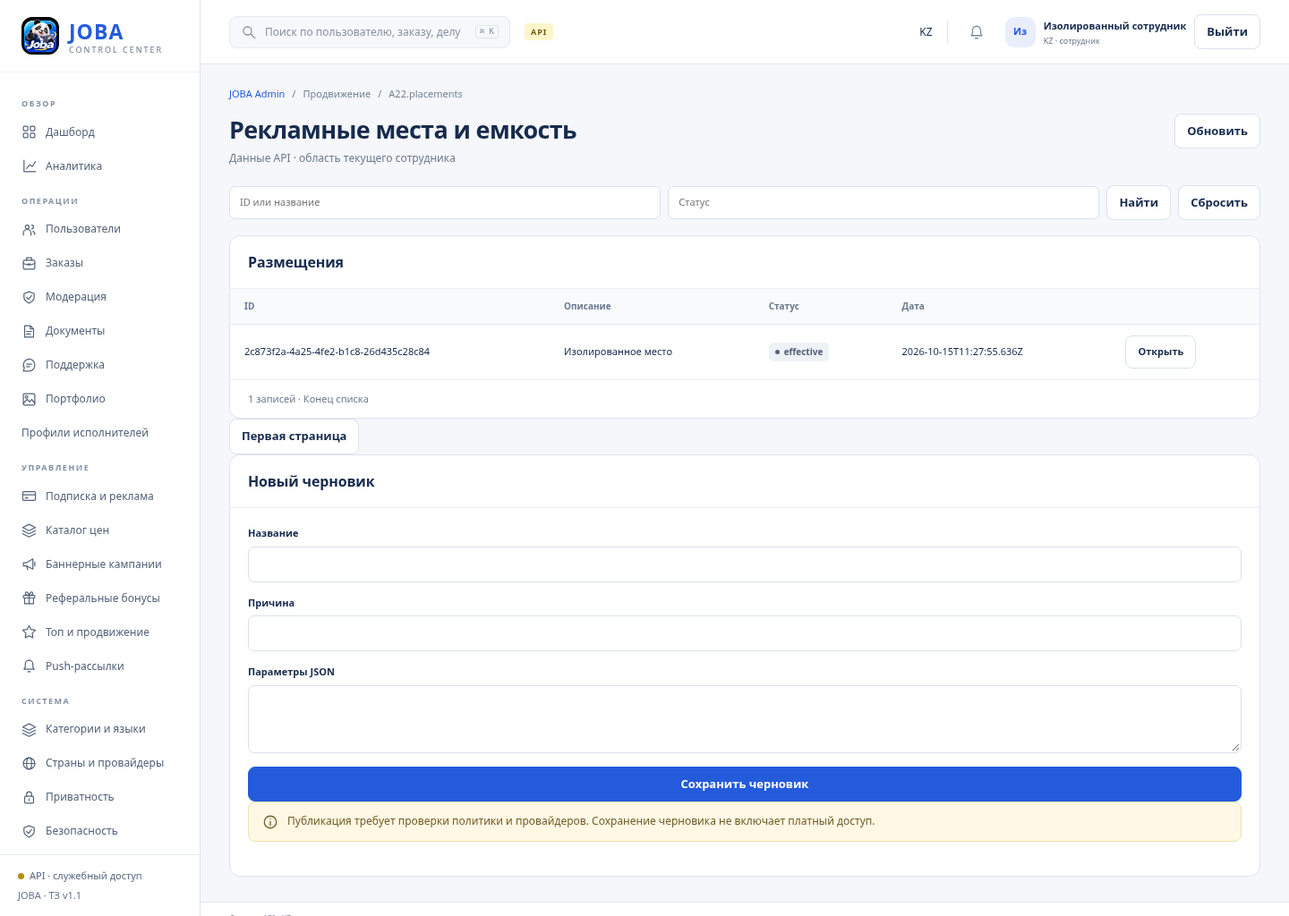
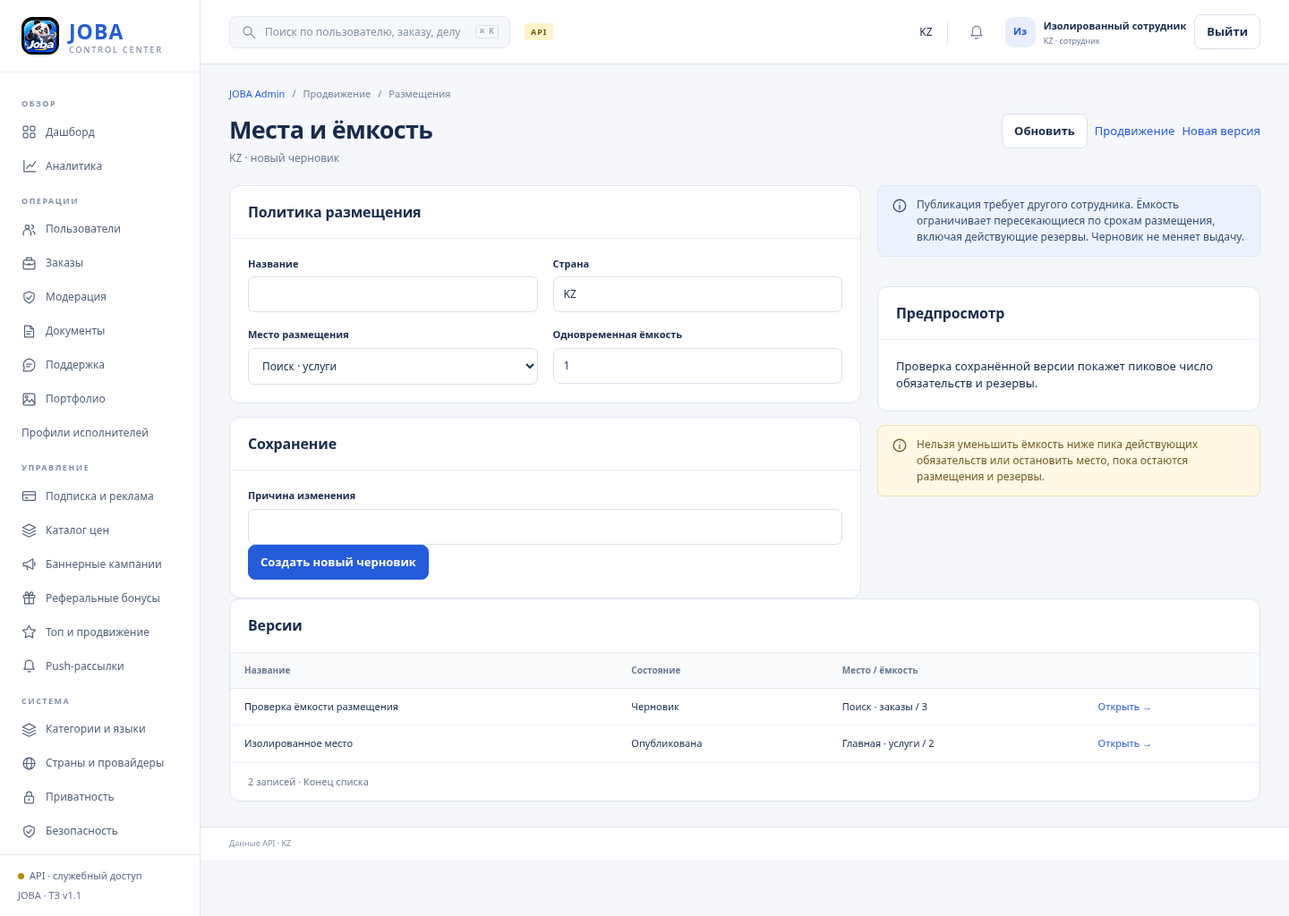
feat: add structured placement policies and preserve capacity promises

diff --git a/apps/admin/placement-workspace.js b/apps/admin/placement-workspace.js
@@ -1,0 +1,13 @@
+const places={'search.services.promoted':'Поиск · услуги','search.orders.promoted':'Поиск · заказы','home.promoted.services':'Главная · услуги','top.services.promoted':'Топ · услуги','top.orders.promoted':'Топ · заказы'};
+const states={draft:'Черновик',effective:'Опубликована',superseded:'Заменена',stopped:'Остановлена'};
+export async function placementWorkspace({key,api,esc,card,note,tablecard,country,actorId,onRefresh}){
+ const params=new URLSearchParams(location.hash.split('?')[1]||''),list=await api('/admin/placement-policies?'+new URLSearchParams({limit:'20',...(params.get('cursor')?{cursor:params.get('cursor')}:{})}));
+ const r=params.get('id')?await api('/admin/placement-policies/'+encodeURIComponent(params.get('id'))):undefined,p=r?.payload||{},own=r?.owner===actorId&&r.status==='draft';
+ const input=(label,name,value,type='text',attrs='')=>`<div class="formfield"><label for="placement-${name}">${label}</label><input id="placement-${name}" name="${name}" value="${esc(value??'')}" type="${type}" ${attrs}></div>`;
+ return {key,id:'Размещения',title:'Места и ёмкость',subtitle:country+(r?' · Версия '+r.version+' · '+(states[r.status]||r.status):' · новый черновик'),section:'Продвижение',actions:'<button id="refresh-data">Обновить</button><a class="btn" href="#boosts">Продвижение</a><a class="btn" href="#placements">Новая версия</a>',body:()=>`<div class="grid split"><form id="placement-editor" class="stack">${card('Политика размещения',`<div class="formgrid">${input('Название','title',r?.title,'text','required minlength="3" maxlength="120"')}${input('Страна','country',country,'text','readonly')}<div class="formfield"><label for="placement-place">Место размещения</label><select id="placement-place" name="placement_id">${Object.entries(places).map(([id,label])=>`<option value="${id}" ${p.placement_id===id?'selected':''}>${label}</option>`).join('')}</select></div>${input('Одновременная ёмкость','capacity',p.capacity??1,'number','required min="1" max="100"')}</div>`)}${card('Сохранение',`${input('Причина изменения','reason','','text','required minlength="10" maxlength="1000"')}<button class="primary">${own?'Сохранить черновик':'Создать новый черновик'}</button><div role="alert"></div>`)}</form><div class="stack">${note('Публикация требует другого сотрудника. Ёмкость ограничивает пересекающиеся по срокам размещения, включая действующие резервы. Черновик не меняет выдачу.')}${r?card('Проверка версии',`<form id="placement-command" class="stack"><label for="placement-command-reason">Основание действия</label><textarea id="placement-command-reason" name="reason" required minlength="10" maxlength="1000"></textarea><div class="actions"><button value="validate">Проверить</button><button value="preview">Предпросмотр параметров</button>${r.status==='draft'?'<button value="publish" class="primary">Опубликовать другим сотрудником</button>':r.status==='effective'?'<button value="stop">Остановить</button>':''}<button value="rollback">Черновик отката</button></div><div role="alert"></div><div role="status"></div></form>`):''}${card('Предпросмотр','<div id="placement-impact">Проверка сохранённой версии покажет пиковое число обязательств и резервы.</div>')}${note('Нельзя уменьшить ёмкость ниже пика действующих обязательств или остановить место, пока остаются размещения и резервы.','warn')}</div></div>${tablecard('Версии',['Название','Состояние','Место / ёмкость',''],list.items.map(x=>[esc(x.title),esc(states[x.status]||x.status),esc((places[x.payload.placement_id]||x.payload.placement_id)+' / '+x.payload.capacity),`<a href="#placements?id=${encodeURIComponent(x.id)}">Открыть →</a>`]),'',`${list.items.length} записей · ${list.meta?.next_cursor?'Есть следующая страница':'Конец списка'}`)}${list.meta?.next_cursor?`<a href="#placements?cursor=${encodeURIComponent(list.meta.next_cursor)}">Следующая страница</a>`:''}`,
+ bind(){const form=document.getElementById('placement-editor'),commands=document.getElementById('placement-command');let dirty=false,busy=false;
+ form.oninput=e=>{if(commands&&e.target.name!=='reason'){dirty=true;commands.querySelectorAll('button').forEach(x=>x.disabled=true);commands.querySelector('[role=status]').textContent='Сохраните изменения перед проверкой.';}};
+ form.onsubmit=async e=>{e.preventDefault();if(busy)return;const values=Object.fromEntries(new FormData(form)),payload={placement_id:values.placement_id,capacity:Number(values.capacity)};busy=true;const controls=[...form.querySelectorAll('input,select,button')];controls.forEach(x=>x.disabled=true);form.querySelector('[role=alert]').textContent='';try{const saved=await api('/admin/placement-policies'+(own?'/'+r.id:''),own?'PATCH':'POST',{title:values.title,reason:values.reason,payload,...(own?{expected_version:r.version}:{})});if(params.get('id')===saved.id)await onRefresh();else location.hash='placements?id='+encodeURIComponent(saved.id);}catch(error){form.querySelector('[role=alert]').textContent=error.message;}finally{busy=false;controls.forEach(x=>x.disabled=false);}};
+ if(commands)commands.onsubmit=async e=>{e.preventDefault();if(dirty||busy)return;busy=true;const action=e.submitter.value,controls=[...commands.querySelectorAll('button'),...form.querySelectorAll('input,select,button')];controls.forEach(x=>x.disabled=true);commands.querySelector('[role=alert]').textContent='';try{const result=await api('/admin/placement-policies/'+r.id+'/'+action,'POST',{reason:new FormData(commands).get('reason'),expected_version:r.version});if(['validate','preview'].includes(action)){commands.querySelector('[role=status]').textContent='Сохранённая версия проверена.';document.getElementById('placement-impact').textContent=action==='preview'?`Версия ${result.source_version}; пик обязательств ${result.promised_peak}; действующих резервов ${result.live_reservations}; активных или запланированных размещений ${result.scheduled_or_active}. Ёмкость не изменена.`:'Место и ёмкость корректны.';}else if(action==='rollback')location.hash='placements?id='+encodeURIComponent(result.id);else await onRefresh();}catch(error){commands.querySelector('[role=alert]').textContent=error.message;}finally{busy=false;controls.forEach(x=>x.disabled=false);}};
+ }};
+}

diff --git a/services/api/src/marketplace.ts b/services/api/src/marketplace.ts
@@ -1,3 +1,4 @@
+import {placementPolicyPayload,placementPromises} from './placement-policy';
 import {referralPolicy} from './referral-policy';
 import {categoryId,categoryPayload} from './category-payload';
 import {pricePayload} from './price-payload';
@@ -1288,7 +1289,7 @@ export class Marketplace {
           if(b.payload?.category_id){const original=await this.object(String(b.payload.category_id),a,'category');stable=categoryId(original);r.legacy_id=original.legacy_id;}
           r.payload=categoryPayload(b.payload,a.country,stable);r.base_version_id=(await this.categories(a.country)).find(x=>x.id===stable)?.record_id??null;await this.store.put(r);await this.audit(a,'categories.draft',r.id,text(b,'reason',5,1000));return r;
         }
-        const r=this.record(kinds[section],a,{title:text(b,'title',3,120),status:'draft',payload:section==='ranking-configs'?rankingPayload(b.payload):section==='referral-campaigns'?referralPolicy(b.payload):section==='price-versions'?pricePayload(b.payload,a.country):section==='push-campaigns'?normalizePushPayload(b.payload??{}):section==='promotions'?normalizePromotionPayload(b.payload??{}):b.payload??{}});
+        const r=this.record(kinds[section],a,{title:text(b,'title',3,120),status:'draft',payload:section==='placement-policies'?placementPolicyPayload(b.payload):section==='ranking-configs'?rankingPayload(b.payload):section==='referral-campaigns'?referralPolicy(b.payload):section==='price-versions'?pricePayload(b.payload,a.country):section==='push-campaigns'?normalizePushPayload(b.payload??{}):section==='promotions'?normalizePromotionPayload(b.payload??{}):b.payload??{}});
         await this.store.put(r);await this.audit(a,section+'.draft',r.id,text(b,'reason',5,1000));return r;
       }
       const editReferral=path.match(/^\/admin\/referral-campaigns\/([^/]+)$/);
@@ -1307,6 +1308,12 @@ export class Marketplace {
         if(r.owner!==a.id||r.status!=='draft')fail(409,'STATE_CONFLICT','Создайте новую версию категории');
         if(b.payload?.category_id&&b.payload.category_id!==categoryId(r))fail(422,'VALIDATION_ERROR','Стабильный ID изменять нельзя');
         const result=await this.store.put({...r,title:text(b,'title',3,120),payload:categoryPayload(b.payload,a.country,categoryId(r)),preview:undefined,version:r.version+1});await this.audit(a,'categories.edited',r.id,text(b,'reason',5,1000));return result;
+      }
+      const editPlacement=path.match(/^\/admin\/placement-policies\/([^/]+)$/);
+      if(editPlacement&&['GET','PATCH'].includes(method)){
+        const r=await this.object(editPlacement[1],a,'placement_policy');if(method==='GET')return {...r,metrics:await placementPromises(this.store,a.country,r.payload.placement_id)};
+        this.version(r,b);if(r.owner!==a.id||r.status!=='draft')fail(409,'STATE_CONFLICT','Создайте новую версию размещения');
+        const result=await this.store.put({...r,title:text(b,'title',3,120),payload:placementPolicyPayload(b.payload),preview:undefined,version:r.version+1});await this.audit(a,'placements.edited',r.id,text(b,'reason',5,1000));return result;
       }
       const editRanking=path.match(/^\/admin\/ranking-configs\/([^/]+)$/);
       if(editRanking&&['GET','PATCH'].includes(method)){
@@ -1398,7 +1405,7 @@ export class Marketplace {
       if(configurationCommand&&configKinds.includes(section)&&method==='POST') {
         const r=await this.object(configurationCommand[2],a,kinds[section]);
         if(configurationCommand[3]==='preview'){this.version(r,b);const reason=text(b,'reason',10,1000);const preview=await this.configuration.preview(r);await this.audit(a,'configuration.preview',r.id,reason);return preview;}
-        if(configurationCommand[3]==='validate'){if(['verification_policy','retention_policy','price_version','category','referral_campaign','ranking_config'].includes(r.kind))this.version(r,b);const result=await this.configuration.validate(r);if(r.kind==='price_version')await this.audit(a,'prices.validated',r.id,text(b,'reason',10,1000));return result;}
+        if(configurationCommand[3]==='validate'){if(['verification_policy','retention_policy','price_version','category','referral_campaign','ranking_config','placement_policy'].includes(r.kind))this.version(r,b);const result=await this.configuration.validate(r);if(r.kind==='price_version')await this.audit(a,'prices.validated',r.id,text(b,'reason',10,1000));return result;}
         const result=await this.configuration.publish(r,a.id,b.expected_version);await this.audit(a,section+'.published',r.id,text(b,'reason',10,1000));return result;
       }
       const configurationStop=path.match(/^\/admin\/([^/]+)\/([^/]+)\/(stop|cancel|rollback)$/);
@@ -1408,6 +1415,10 @@ export class Marketplace {
         if(r.kind==='category'&&configurationStop[3]!=='rollback'&&(await this.categories(a.country)).some(child=>child.payload.parent_id===categoryId(r)))fail(409,'CATEGORY_HAS_CHILDREN','Сначала перенесите или архивируйте дочерние категории');
         if(r.kind==='country_control'&&configurationStop[3]!=='rollback')fail(409,'SECOND_APPROVAL_REQUIRED','Для изменения состояния страны опубликуйте новый черновик с независимым подтверждением');
         if(configurationStop[3]==='rollback'){const draft=this.record(r.kind,a,{title:r.title,payload:r.payload,status:'draft',rollback_of:r.id,...(r.kind==='category'?{legacy_id:r.legacy_id,base_version_id:(await this.categories(a.country)).find(x=>x.id===categoryId(r))?.record_id??null}:{})});await this.store.put(draft);await this.audit(a,section+'.rollback_draft',draft.id,reason);return draft;}
+        if(r.kind==='placement_policy'&&r.status==='effective'){
+          await this.store.db.query('SELECT pg_advisory_xact_lock(hashtextextended($1,0))',['boost-capacity:'+a.country+':'+r.payload.placement_id]);
+          if((await placementPromises(this.store,a.country,r.payload.placement_id)).promised_peak>0)fail(409,'PLACEMENT_PROMISES_ACTIVE','Сначала завершите действующие размещения и резервы');
+        }
         const result=await this.store.put({...r,status:'stopped',version:r.version+1});await this.audit(a,section+'.stopped',r.id,reason);return result;
       }
       fail(404,'NOT_FOUND','Команда ещё не реализована');

diff --git a/apps/admin/runtime.js b/apps/admin/runtime.js
@@ -1,3 +1,4 @@
+import {placementWorkspace} from './placement-workspace.js';
 import {rankingWorkspace} from './ranking-workspace.js';
 import {referralWorkspace} from './referral-workspace.js';
 import {categoryWorkspace} from './category-workspace.js';
@@ -23,7 +24,7 @@ const {routes,render,card,tablecard,field,note,metric,badge}=window.JOBA_ADMIN;
 const designMode=new URLSearchParams(location.search).has('design');
 const esc=v=>String(v??'').replace(/[&<>"']/g,c=>({'&':'&amp;','<':'&lt;','>':'&gt;','"':'&quot;',"'":'&#39;'}[c]));
 let session,loginDraft,cache={},error='',generation=0,disposeWorkspace;
-const privateWorkspaces=new Set([...pushRoutes,...scenarioRoutes,...userRoutes,'ranking','referrals','referral-preview','categories','prices','pricing','verificationPolicies','retention','campaigns','banner-detail','branding-build','boosts','boost-grant','analytics','dashboard','security','jobs','scheduled','job-detail','branding','countries','monetization','settings','legal']);
+const privateWorkspaces=new Set([...pushRoutes,...scenarioRoutes,...userRoutes,'placements','ranking','referrals','referral-preview','categories','prices','pricing','verificationPolicies','retention','campaigns','banner-detail','branding-build','boosts','boost-grant','analytics','dashboard','security','jobs','scheduled','job-detail','branding','countries','monetization','settings','legal']);
 const cursors={},filters={},configRoutes=new Set(['prices','pricing','monetization','push','referrals','dictionaries','dictionary','categories','ranking','placements','verificationPolicies','retention']);
 const sections={users:['users','Аккаунты'],orders:['orders','Заказы'],support:['support-threads','Поддержка'],'support-recovery':['recovery-threads','Восстановление доступа'],moderation:['cases','Дела'],portfolio:['portfolio','Портфолио'],contractors:['contractors','Профили исполнителей'],privacy:['privacy-requests','Запросы приватности'],blacklist:['blacklist','Черный список'],audit:['audit','Аудит'],prices:['price-versions','Цены'],monetization:['monetization-configs','Монетизация'],push:['push-campaigns','Рассылки'],referrals:['referral-campaigns','Реферальные кампании'],dictionaries:['moderation-dictionaries','Словари'],categories:['categories','Категории'],ranking:['ranking-configs','Рейтинг'],pricing:['price-versions','Каталог цен'],campaigns:['banner-campaigns','Кампании'],dictionary:['moderation-dictionaries','Запрещенные слова'],verification:['verifications','Проверка документов'],top100:['boost-reports','Топ и продвижение'],placements:['placement-policies','Размещения'],verificationPolicies:['verification-policies','Правила проверки'],retention:['retention-policies','Сроки хранения']};
 function clearStaffState(){
@@ -114,11 +115,12 @@ async function draw(reload=true) {
       if(key==='countries')routes[key]=await countryWorkspace({key,api:request,esc,card,note,badge,namedField,onRefresh:()=>draw()});
       if(['analytics','dashboard','security','jobs','scheduled','job-detail'].includes(key))routes[key]=await systemWorkspace({key,api:request,esc,card,tablecard,note,metric,badge,onRefresh:()=>draw()});
       if(key==='security')routes[key].actions+='<a class="btn" href="#security-full">Защищённый просмотр</a>';
-      if(sections[key]&&!pushRoutes.has(key)&&!['ranking','referrals','campaigns','verificationPolicies','retention','prices','pricing','categories'].includes(key))cache[key]=await request('/admin/'+sections[key][0]+'?'+new URLSearchParams({...filters[key],...(cursors[key]?{cursor:cursors[key]}:{})}));
+      if(sections[key]&&!pushRoutes.has(key)&&!['placements','ranking','referrals','campaigns','verificationPolicies','retention','prices','pricing','categories'].includes(key))cache[key]=await request('/admin/'+sections[key][0]+'?'+new URLSearchParams({...filters[key],...(cursors[key]?{cursor:cursors[key]}:{})}));
       if(key==='categories')routes[key]=await categoryWorkspace({key,api:request,esc,card,note,tablecard,country:session.user.country,actorId:session.user.id,onRefresh:()=>draw()});
       if(['verificationPolicies','retention'].includes(key))routes[key]=await documentPolicyWorkspace({key,api:request,esc,card,note,tablecard,country:session.user.country,actorId:session.user.id,onRefresh:()=>draw()});
       if(['campaigns','banner-detail'].includes(key))routes[key]=await bannerWorkspace({key,api:request,files:{upload:async file=>{if(g!==generation)throw Error('Экран изменился');const result=await api.upload(file,'banner');if(g!==generation)throw Error('Экран изменился');return result;},download:async path=>{if(g!==generation)throw Error('Экран изменился');const result=await api.download(path);if(g!==generation)throw Error('Экран изменился');return result;}},esc,card,note,tablecard,country:session.user.country,actorId:session.user.id,onRefresh:()=>draw()});
       if(['promo','promo-preview'].includes(key))routes[key]=await promotionWorkspace({key,api:request,esc,card,note,tablecard,country:session.user.country,actorId:session.user.id,onRefresh:()=>draw()});
+      if(key==='placements')routes[key]=await placementWorkspace({key,api:request,esc,card,note,tablecard,country:session.user.country,actorId:session.user.id,onRefresh:()=>draw()});
       if(key==='ranking')routes[key]=await rankingWorkspace({key,api:request,esc,card,note,tablecard,country:session.user.country,actorId:session.user.id,onRefresh:()=>draw()});
       if(['referrals','referral-preview'].includes(key))routes[key]=await referralWorkspace({key,api:request,esc,card,note,tablecard,country:session.user.country,actorId:session.user.id,onRefresh:()=>draw()});
       if(['pricing','prices'].includes(key))routes[key]=await priceWorkspace({key,api:request,esc,card,note,tablecard,country:session.user.country,actorId:session.user.id,onRefresh:()=>draw()});

diff --git a/services/api/src/configuration.ts b/services/api/src/configuration.ts
@@ -1,3 +1,4 @@
+import {placementPolicyPayload,placementPromises} from './placement-policy';
 import {referralPolicy} from './referral-policy';
 import {categoryId,validateCategory} from './category-payload';
 import {pricePayload} from './price-payload';
@@ -66,7 +67,7 @@ export class Configuration {
     if(r.kind==='category')return validateCategory(this.store,r);
     if(r.kind==='referral_campaign')referralPolicy(p);
     if(r.kind==='ranking_config')rankingParameters(p);
-    if(r.kind==='placement_policy'&&(!Number.isInteger(p.capacity)||p.capacity<1||p.capacity>100))fail('VALIDATION_ERROR','Проверьте ёмкость размещения');
+    if(r.kind==='placement_policy'){const policy=placementPolicyPayload(p);return {valid:true,...policy,...await placementPromises(this.store,r.country,policy.placement_id)};}
     if(['verification_policy','retention_policy'].includes(r.kind)) {
       const document=await this.store.get(p.document_id);if(!document||document.kind!=='legal_document'||document.country!==r.country||document.status!=='published')fail('LEGAL_VERSION_UNAPPROVED','Нужно опубликованное правовое основание');
       if(r.kind==='verification_policy'&&(!Array.isArray(p.document_types)||!p.document_types.length||p.document_types.some((t:string)=>!['passport','id_card'].includes(t))))fail('VALIDATION_ERROR','Укажите допустимые типы документа');
@@ -91,10 +92,15 @@ export class Configuration {
       const head=(await this.store.all('category',r.country)).find(x=>x.status==='effective'&&categoryId(x)===categoryId(r));
       if(Object.hasOwn(r,'base_version_id')&&(head?.id??null)!==r.base_version_id)fail('CATEGORY_BASE_CHANGED','Каталог изменился. Откройте актуальную категорию и создайте новую версию',409);
     }
+    if(r.kind==='placement_policy'){
+      placementPolicyPayload(r.payload);
+      await this.store.db.query('SELECT pg_advisory_xact_lock(hashtextextended($1,0))',['boost-capacity:'+r.country+':'+r.payload.placement_id]);
+      const fresh=await this.store.get(r.id);if(!fresh||fresh.version!==version)fail('STATE_CONFLICT','Версия размещения изменилась',409);
+    }
     const preview=await this.validate(r);
     if(r.kind==='placement_policy') {
-      const active=(await this.store.all('boost',r.country)).filter(x=>x.placement_id===r.payload.placement_id&&['active','scheduled'].includes(x.status));
-      if(active.length>r.payload.capacity)fail('CAPACITY_PROMISE_CONFLICT','Нельзя уменьшить ёмкость ниже выданных обещаний',409);
+      const promises=await placementPromises(this.store,r.country,r.payload.placement_id);
+      if(promises.promised_peak>r.payload.capacity)fail('CAPACITY_PROMISE_CONFLICT','Нельзя уменьшить ёмкость ниже выданных обещаний',409);
     }
     const scope=(x:RecordData)=>JSON.stringify(['referral_campaign','ranking_config'].includes(x.kind)?{country:x.country}:x.kind==='category'?{category:x.payload?.category_id??x.id}:x.kind==='price_version'?{provider:x.payload.provider,product:x.payload.product_id,audience:x.payload.audience}:x.kind==='placement_policy'?{placement:x.payload.placement_id}:{scope:x.payload?.scope,role:x.payload?.role,platform:x.payload?.platform});
     for(const old of await this.store.all(r.kind,r.country))if(old.status==='effective'&&scope(old)===scope(r))await this.store.put({...old,status:'superseded',version:old.version+1});

diff --git a/services/api/src/placement-policy.ts b/services/api/src/placement-policy.ts
@@ -1,0 +1,24 @@
+import {HttpException} from '@nestjs/common';
+import {Store} from './store';
+import {promotedPlacements} from './promoted-listings';
+function fail(message:string):never{throw new HttpException({error:{code:'VALIDATION_ERROR',message,details:{},retryable:false}},422);}
+export function placementPolicyPayload(p:any){
+ if(!promotedPlacements.includes(p?.placement_id)||!Number.isSafeInteger(p?.capacity)||p.capacity<1||p.capacity>100)fail('Выберите известное место и ёмкость от 1 до 100');
+ return {placement_id:p.placement_id,capacity:p.capacity};
+}
+export async function placementPromises(store:Store,country:string,placement:string,now=new Date()){
+ const time=now.getTime(),events:{time:number,delta:number}[]=[];let reservations=0,placements=0;
+ for(const r of await store.all('boost',country)){
+  if(r.placement_id!==placement||!['reserved','payment_pending','active','scheduled'].includes(r.status))continue;
+  const reserve=['reserved','payment_pending'].includes(r.status);
+  if(reserve&&!(Date.parse(r.reservation_expires_at)>time))continue;
+  const start=Math.max(time,Date.parse(r.starts_at??r.created_at)),end=Date.parse(r.ends_at);
+  if(!Number.isFinite(start)||!Number.isFinite(end))fail('Проверьте даты существующих размещений');
+  if(end<=start)continue;
+  if(reserve)reservations++;else placements++;
+  events.push({time:start,delta:1},{time:end,delta:-1});
+ }
+ let occupied=0,peak=0;
+ for(const event of events.sort((a,b)=>a.time-b.time||a.delta-b.delta)){occupied+=event.delta;peak=Math.max(peak,occupied);}
+ return {promised_peak:peak,live_reservations:reservations,scheduled_or_active:placements};
+}

diff --git a/docs/placement-editor-update.md b/docs/placement-editor-update.md
@@ -1,0 +1,13 @@
+# Места и ёмкость продвижения
+
+Форма `#placements` использует отдельные поля названия, места и одновременной ёмкости (целое 1–100) вместо JSON. Доступны пять мест, поддерживаемых выдачей. Страна берётся из сессии сотрудника; изменения черновика требуют причины и ожидаемой версии. Редактировать можно только собственный черновик. Публикация требует другого сотрудника с правами продвижения и MFA.
+
+GET/PATCH `/admin/placement-policies/{id}` добавлены в OpenAPI. Предпросмотр возвращает пиковое число пересекающихся обязательств, действующие резервы и активные/запланированные размещения из базы. Несохранённые изменения блокируют команды версии. Ошибки сохраняют введённые поля.
+
+Публикация и остановка используют ту же транзакционную блокировку ёмкости, что и резервирование продвижения. Снижение ниже пика запрещено; остановка опубликованной политики с обязательствами запрещена. Истёкшие резервы и завершённые интервалы не занимают ёмкость. Соседние интервалы без пересечения не складываются. Это проверка политик; внешняя оплата не имитируется.
+
+Проверки: сценарий API охватывает ограничения полей, владельца, версии, независимую публикацию, соседние интервалы, действующий/истёкший резерв, запрет остановки и фактический вызов резервирования через Growth. Браузерный сценарий проверяет создание, редактирование, блокировку несохранённой версии, предпросмотр и запрет самостоятельной публикации.
+
+Дополнительный снимок: `design/review/admin/placement-editor.png`. Визуальная приёмка A22.placements остаётся открытой; наличие снимка не подтверждает 1:1. Изменения этой ветки ещё не развёрнуты на рабочем сервере.
+
+Итог прогона: сборки всех рабочих пространств успешны; 96 тестов API прошли, ошибок нет; браузерный прогон завершён успешно (72 кадра, без ошибок маршрутов). Проверки выполнялись на изолированной базе, а не на рабочем сервере.

diff --git a/docs/completion-plan.md b/docs/completion-plan.md
@@ -32,7 +32,7 @@
 
 ## 5. Структурированные формы админки
 
-Статус: в работе. Формы правил проверки, хранения документов, каталога цен, категорий и рейтинга реализованы; остальные формы и визуальная приёмка открыты. См. `document-policy-editor-update.md`, `price-editor-update.md`, `category-editor-update.md`, `ranking-editor-update.md`. В реферальной механике добавлен резерв бюджета до принятия приглашения; структурированная форма A20 подключена к API; окно ввода кода после регистрации реализовано, остальные дополнительные правила и визуальная приёмка открыты. См. `referral-reservations-update.md`, `referral-editor-update.md`.
+Статус: в работе. Формы правил проверки, хранения документов, каталога цен, категорий, рейтинга и мест размещения реализованы; остальные формы и визуальная приёмка открыты. См. `document-policy-editor-update.md`, `price-editor-update.md`, `category-editor-update.md`, `ranking-editor-update.md`, `placement-editor-update.md`. В реферальной механике добавлен резерв бюджета до принятия приглашения; структурированная форма A20 подключена к API; окно ввода кода после регистрации реализовано, остальные дополнительные правила и визуальная приёмка открыты. См. `referral-reservations-update.md`, `referral-editor-update.md`.
 
 Условие завершения: Для каждой формы поля, ограничения, сохранение, конфликт и права.
 
